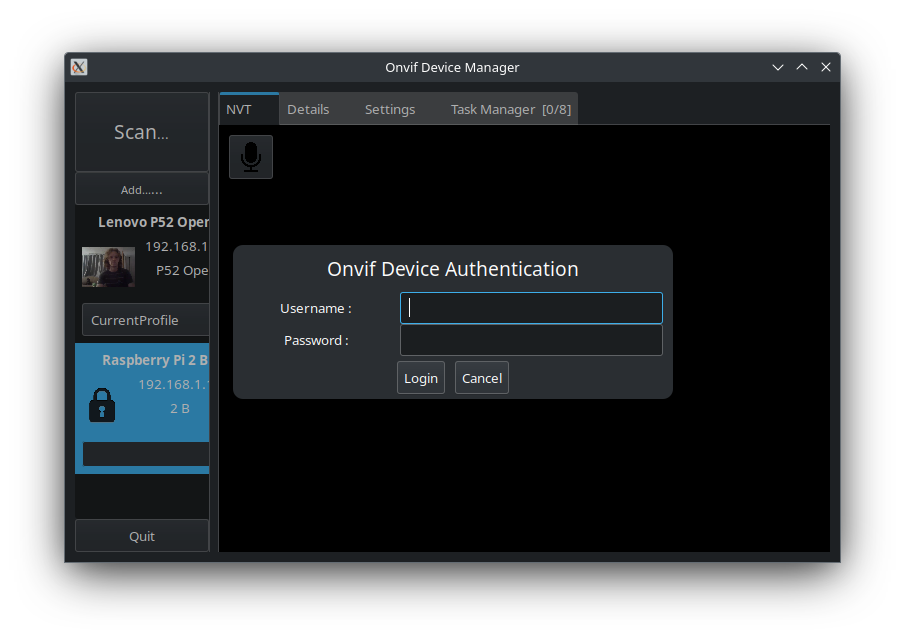
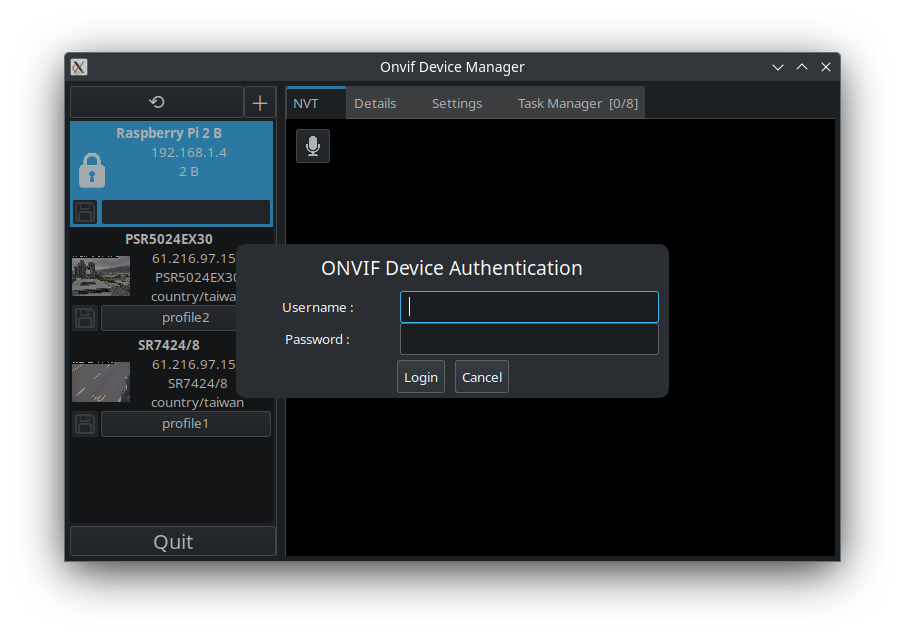
Merged OnvifDiscoveryLib into OnvifSoapLib autogen.sh - removed onvifdisco configure.ac - started using versioning Makefile.am - created deb target to created debian package file README.md - Added instruction to use debian install package AppCapture.png - Updated with new UI gtkbinaryimage.c - Fixed

diff --git a/src/app/gtkbinaryimage.c b/src/app/gtkbinaryimage.c
@@ -27,7 +27,7 @@ GdkPixbuf * GtkBinaryImage__create_pixbuf(unsigned char* data_start, unsigned in
         return NULL;
     }
 
-    pixbuf = gdk_pixbuf_copy(pixbuf); //TODO Create virtual method to override with styledimage
+    g_object_ref(pixbuf);
 
     gdk_pixbuf_loader_close(loader,NULL);
     g_object_unref(loader);

diff --git a/README.md b/README.md
@@ -79,12 +79,35 @@ If your system already has gstreamer pre-installed, I strongly recommend using `
 Note that autogen will automatically call "./configure".
 ```
 ./autogen.sh --prefix=$(pwd)/dist --enable-latest
+make -j$(nproc)
+```
+At this point, you should be able to execute the application without installing it on the system
+
+```
+./onvifmgr
 ```
 
-### Compile and install GUI App
+### Install
+#### debian
+Under debian, I recommend using the package manager:
 ```
-make
-make install
+make deb
+sudo dpkg -i onvifmgr_0.0.1.deb
+```
+#### other
+For the time being, other distros can use the following
+```
+sudo make install
+```
+
+### Uninstall
+#### debian
+```
+sudo dpkg -r onvifmgr
+```
+#### other
+```
+sudo make uninstall
 ```
 # Note
 I have very little spare time to work on any personal project, so this might take a while.
